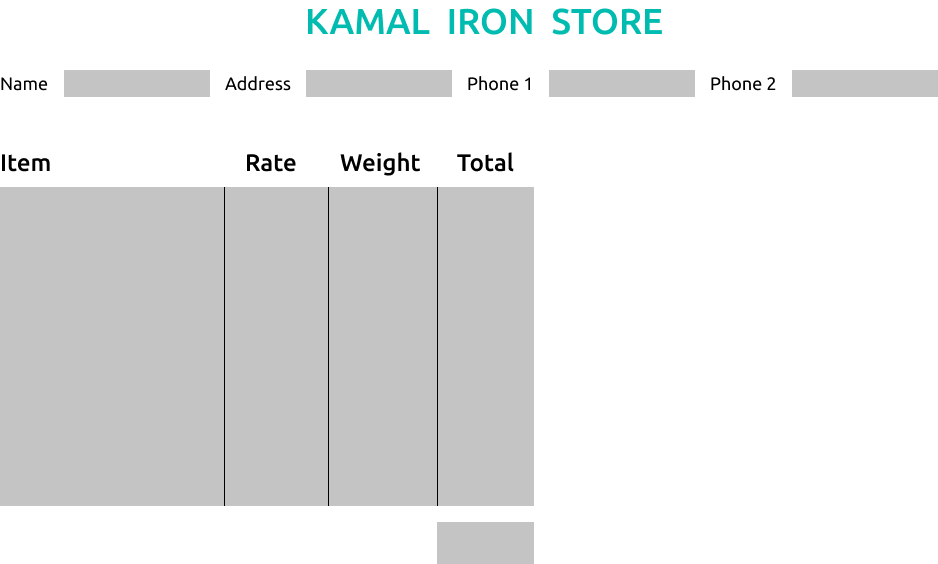
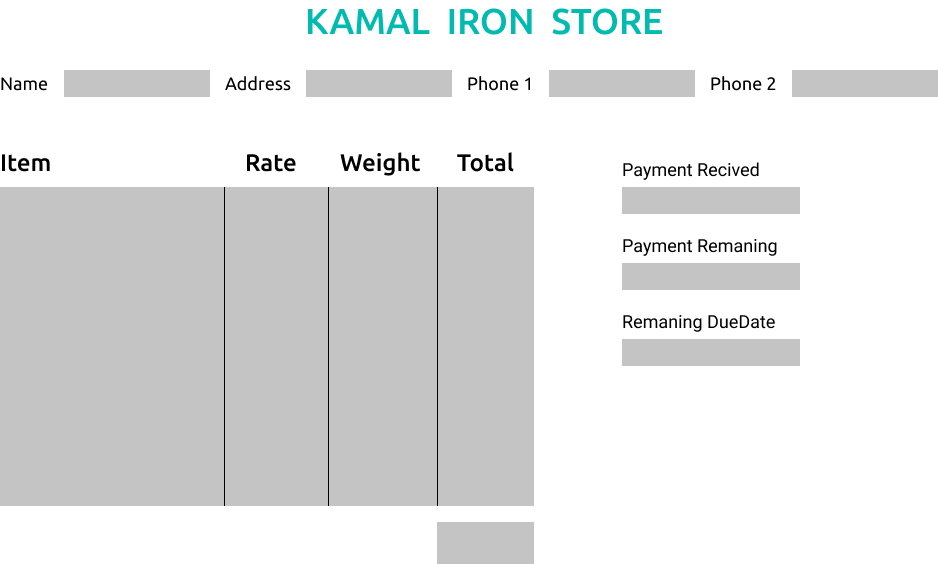
Add files via upload

Changed region(s): [[0.6493, 0.5426, 0.8657, 0.6631], [0.6493, 0.2713, 0.8657, 0.3918], [0.6493, 0.422, 0.8657, 0.5124]]

diff --git a/Python Gui/Kamal Iron Project/window.py b/Python Gui/Kamal Iron Project/window.py
@@ -1,6 +1,9 @@
 from cgitb import text
+from functools import total_ordering
 from tkinter import *
+from numpy import gradient
 import pandas as pd
+import datetime
 
 window = Tk()
 
@@ -24,6 +27,12 @@ background = canvas.create_image(
     image=background_img)
 
 
+# *** DATE TIME *******************************************
+
+date_time = datetime.datetime.now()
+
+# *********************************************************
+
 # *** CUSTOMER INFO INPUTS ********************************
 
 name = Entry(bd=0, bg="#C4C4C4", highlightthickness=0)
@@ -43,8 +52,23 @@ phone2.place(x=821, y=77, width=146, height=27)
 # *** DROP DOWN ITEMS *************************************
 DropDownItems = ["Steel 1/2",
         "Steel 1/4",
+        "Steel 3/8",
+        "Steel 3/4",
+        "Steel 5/16",
+        'Steel 1"',
+        'Steel 4NO',
+        'Steel 8NO',
+        'Steel 9NO',
+        'Karachi Steel',
+        "Plastic",
         "Cement",
-        "Plastic"]
+        "Tiron",
+        "Wending Wire",
+        "Garder 7x4",
+        "Garder 18LBS",
+        "Garder 22LBS",
+        "Garder 25LBS",
+        ]
 # *********************************************************
 
 # *** DROP DOWNS ******************************************
@@ -69,6 +93,21 @@ item4 = StringVar()
 DropDown4 = OptionMenu(window,item4,*DropDownItems)
 DropDown4.place(x=38,y=320)
 
+item5 = StringVar()
+# item4.set("Item 4")
+DropDown5 = OptionMenu(window,item5,*DropDownItems)
+DropDown5.place(x=38,y=360)
+
+item6 = StringVar()
+# item4.set("Item 4")
+DropDown6 = OptionMenu(window,item6,*DropDownItems)
+DropDown6.place(x=38,y=400)
+
+item7 = StringVar()
+# item4.set("Item 4")
+DropDown7 = OptionMenu(window,item7,*DropDownItems)
+DropDown7.place(x=38,y=440)
+
 # *********************************************************
 
 # *** RATE INPUTS *****************************************
@@ -88,6 +127,18 @@ rate3.insert(0,0)
 rate4 = Entry(bd=0, bg="#ffffff", highlightthickness=0)
 rate4.place(x=263, y=322, width=82, height=23)
 rate4.insert(0,0)
+
+rate5 = Entry(bd=0, bg="#ffffff", highlightthickness=0)
+rate5.place(x=263, y=362, width=82, height=23)
+rate5.insert(0,0)
+
+rate6 = Entry(bd=0, bg="#ffffff", highlightthickness=0)
+rate6.place(x=263, y=402, width=82, height=23)
+rate6.insert(0,0)
+
+rate7 = Entry(bd=0, bg="#ffffff", highlightthickness=0)
+rate7.place(x=263, y=442, width=82, height=23)
+rate7.insert(0,0)
 
 # *********************************************************
 
@@ -109,25 +160,23 @@ Weight4 = Entry(bd=0, bg="#ffffff", highlightthickness=0)
 Weight4.place(x=372, y=322, width=82, height=23)
 Weight4.insert(0,0)
 
-# *********************************************************
+Weight5 = Entry(bd=0, bg="#ffffff", highlightthickness=0)
+Weight5.place(x=372, y=362, width=82, height=23)
+Weight5.insert(0,0)
 
+Weight6 = Entry(bd=0, bg="#ffffff", highlightthickness=0)
+Weight6.place(x=372, y=402, width=82, height=23)
+Weight6.insert(0,0)
 
-# *** DATA SAVEING ****************************************
-
-def SaveData(grantotal):
-    df = pd.DataFrame([[name.get(),address.get(),
-                        phone1.get(),phone2.get(),
-                        (item1.get(),rate1.get(),Weight1.get()),
-                        (item2.get(),rate2.get(),Weight2.get()),
-                        (item3.get(),rate3.get(),Weight3.get()),
-                        (item4.get(),rate4.get(),Weight4.get()),
-                        grantotal
-                        ]])
-    df.to_csv("customers.csv",mode='a',header=None,index=None)
+Weight7 = Entry(bd=0, bg="#ffffff", highlightthickness=0)
+Weight7.place(x=372, y=442, width=82, height=23)
+Weight7.insert(0,0)
 
 # *********************************************************
 
 # *** TOTAL FUNCTION  *************************************
+
+
 
 def CalcTotal():
     total1 = Label(text= (float(rate1.get()) * float(Weight1.get()) ),padx=10,pady=3)
@@ -141,17 +190,72 @@ def CalcTotal():
 
     total4 = Label(text= (float(rate4.get()) * float(Weight4.get()) ),padx=10,pady=3)
     total4.place(x=480,y=320)
+
+    total5 = Label(text= (float(rate5.get()) * float(Weight5.get()) ),padx=10,pady=3)
+    total5.place(x=480,y=360)
+
+    total6 = Label(text= (float(rate6.get()) * float(Weight6.get()) ),padx=10,pady=3)
+    total6.place(x=480,y=400)
+
+    total7 = Label(text= (float(rate7.get()) * float(Weight7.get()) ),padx=10,pady=3)
+    total7.place(x=480,y=440)
     
-    GrandTotal = (float(rate1.get()) * float(Weight1.get()))+(float(rate2.get()) * float(Weight2.get()))+(float(rate3.get()) * float(Weight3.get()))+(float(rate4.get()) * float(Weight4.get()))
-    
-    SaveData(GrandTotal)
+    GrandTotal = (float(rate1.get()) * float(Weight1.get()))+(float(rate2.get()) * float(Weight2.get()))+(float(rate3.get()) * float(Weight3.get()))+(float(rate4.get()) * float(Weight4.get()))+(float(rate5.get()) * float(Weight5.get()))+(float(rate6.get()) * float(Weight6.get()))+(float(rate7.get()) * float(Weight7.get()))
+
+    Grand = Label(text=GrandTotal,padx=10,pady=3)
+    Grand.place(x=477,y=535)
+
     
 # *********************************************************
 
 # *** TOTAL BUTTON ****************************************
 
-TotalButton = Button(window,text="Total",command=CalcTotal)
-TotalButton.place(x=372,y=360)
+TotalButton = Button(window,text="Total",command=CalcTotal,padx=10,pady=10)
+TotalButton.place(x=368,y=530)
+
+# *********************************************************
+
+# *** PAYMENT INFO INPUTS *********************************
+
+recived = Entry(bd=0, bg="#C4C4C4", highlightthickness=0)
+recived.insert(0,0)
+recived.place(x=653, y=197, width=178, height=27)
+
+remaning = Entry(bd=0, bg="#C4C4C4", highlightthickness=0)
+remaning.insert(0,0)
+remaning.place(x=653, y=269, width=178, height=27)
+
+dueDate = Entry(bd=0, bg="#C4C4C4", highlightthickness=0)
+dueDate.place(x=653, y=339, width=178, height=27)
+
+
+# *********************************************************
+
+# *** DATA SAVEING ****************************************
+
+def SaveData():
+    total =((float(rate1.get()) * float(Weight1.get()))+(float(rate2.get()) * float(Weight2.get()))+(float(rate3.get()) * float(Weight3.get()))+(float(rate4.get()) * float(Weight4.get()))+(float(rate5.get()) * float(Weight5.get()))+(float(rate6.get()) * float(Weight6.get()))+(float(rate7.get()) * float(Weight7.get()))),
+    df = pd.DataFrame([[date_time, name.get(),address.get(),
+                        phone1.get(),phone2.get(),
+                        ((float(rate1.get()) * float(Weight1.get()))+(float(rate2.get()) * float(Weight2.get()))+(float(rate3.get()) * float(Weight3.get()))+(float(rate4.get()) * float(Weight4.get()))+(float(rate5.get()) * float(Weight5.get()))+(float(rate6.get()) * float(Weight6.get()))+(float(rate7.get()) * float(Weight7.get()))),
+                        recived.get(),remaning.get(),dueDate.get(),
+                        (item1.get(),rate1.get(),Weight1.get()),
+                        (item2.get(),rate2.get(),Weight2.get()),
+                        (item3.get(),rate3.get(),Weight3.get()),
+                        (item4.get(),rate4.get(),Weight4.get()),
+                        (item5.get(),rate5.get(),Weight5.get()),
+                        (item6.get(),rate6.get(),Weight6.get()),
+                        (item7.get(),rate7.get(),Weight7.get()),
+                        ]])
+    df.to_csv("customers.csv",mode='a',header=None,index=None)
+
+# *********************************************************
+
+
+# *** SAVE BUTTON ****************************************
+
+SaveButton = Button(window,text="Save Data",command=SaveData,padx=10,pady=10)
+SaveButton.place(x=268,y=530)
 
 # *********************************************************
 
